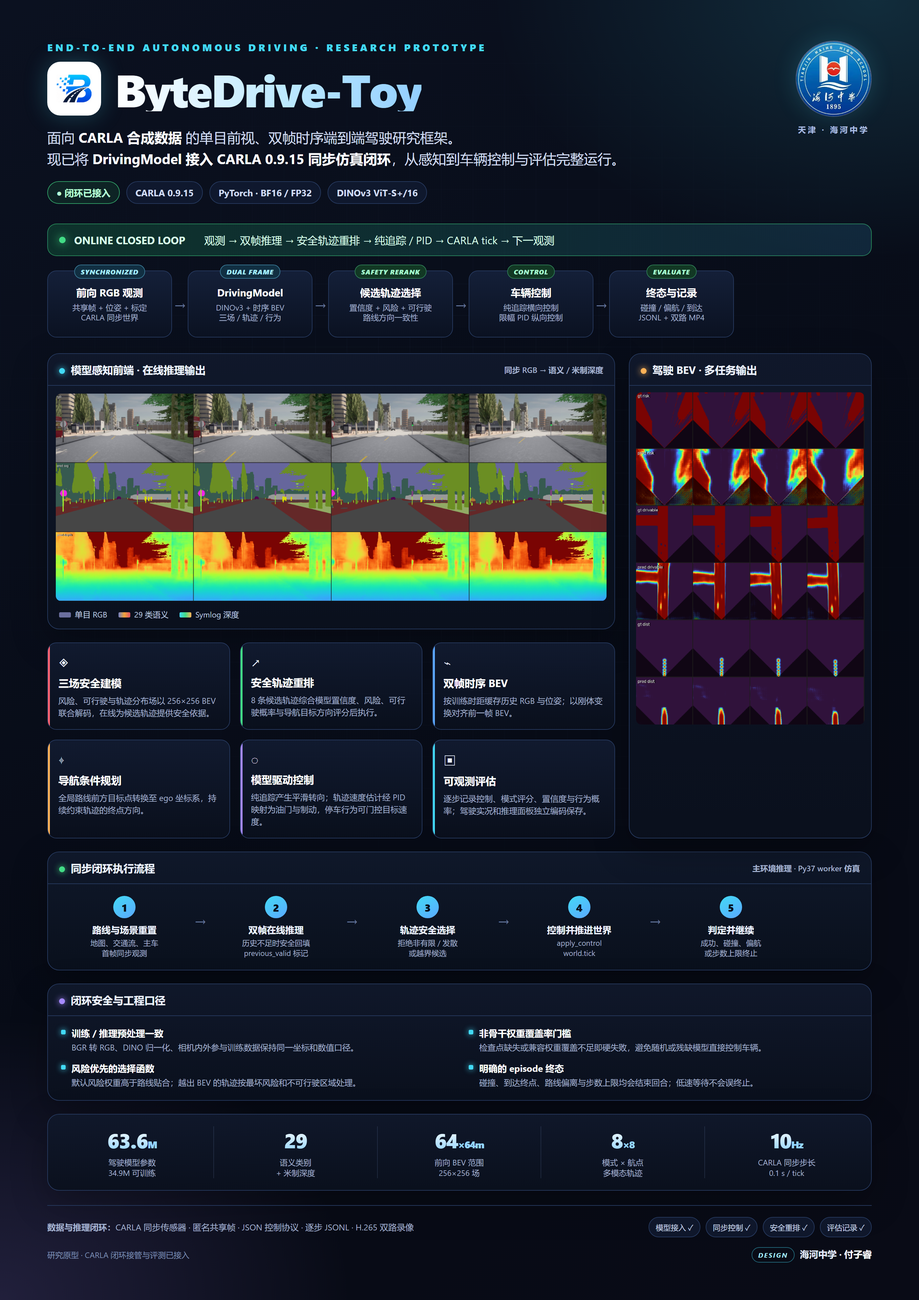
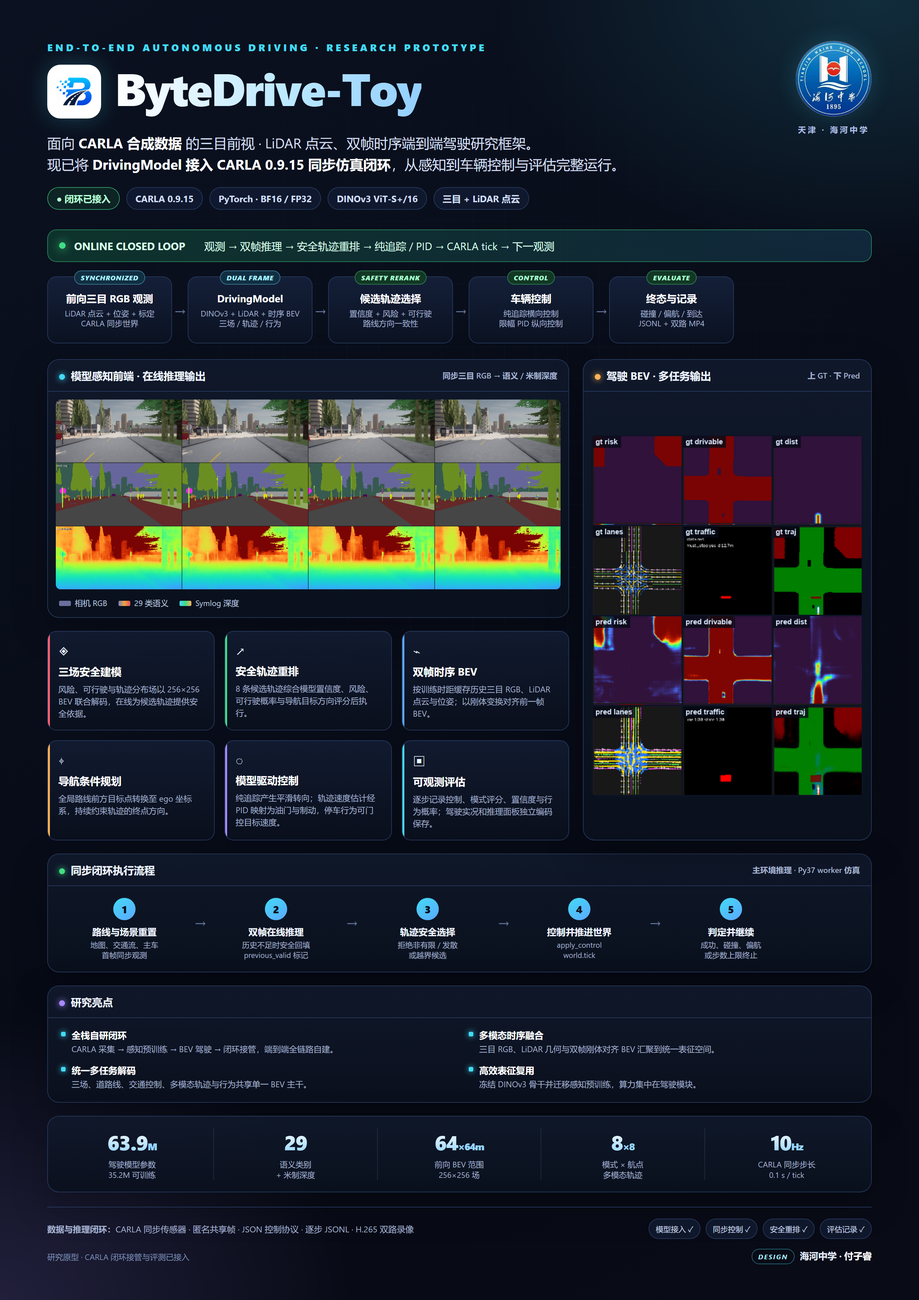
更新

diff --git a/post/poster.html b/post/poster.html
@@ -5,16 +5,16 @@
 <meta name="viewport" content="width=device-width, initial-scale=1">
 <title>ByteDrive-Toy · CARLA 闭环</title>
 <style>
-:root{--bg:#070b16;--panel:#10182b;--panel2:#0c1324;--line:#26395e;--ink:#eef4ff;--muted:#a3b1cd;--cyan:#42daf5;--blue:#5ca8ff;--green:#42dc86;--amber:#ffb257;--violet:#a68aff;--red:#ff6372}*{box-sizing:border-box}html,body{margin:0;background:#000}.stage{width:1400px;height:1980px;overflow:hidden;position:relative;color:var(--ink);font-family:"Segoe UI","Microsoft YaHei",sans-serif;background:radial-gradient(1000px 680px at 95% 0,rgba(66,218,245,.15),transparent 58%),radial-gradient(850px 680px at 0 100%,rgba(166,138,255,.16),transparent 63%),linear-gradient(150deg,#0b1120,#070b16 58%,#090b16)}.stage:before{content:"";position:absolute;inset:0;opacity:.45;background-image:linear-gradient(rgba(123,157,220,.09) 1px,transparent 1px),linear-gradient(90deg,rgba(123,157,220,.09) 1px,transparent 1px);background-size:48px 48px;mask-image:radial-gradient(900px 760px at 50% 34%,#000,transparent)}.pad{position:relative;padding:62px 72px 54px}.top{display:flex;justify-content:space-between;align-items:flex-start}.kicker{font-size:15px;font-weight:800;letter-spacing:4px;color:var(--cyan);text-transform:uppercase}.brand{display:flex;gap:21px;align-items:center;margin-top:12px}.logo{width:82px;height:82px;padding:6px;border-radius:20px;background:#fff;box-shadow:0 0 35px rgba(66,218,245,.25)}.logo img{width:100%;height:100%;object-fit:contain}.title{font-size:69px;font-weight:850;line-height:1;letter-spacing:-2px;background:linear-gradient(90deg,#fff,#bde9ff 55%,#93cfff);color:transparent;background-clip:text}.sub{width:925px;margin:17px 0 0;font-size:21px;line-height:1.55;color:#d2ddf2}.sub b{color:#fff}.pills{display:flex;gap:10px;margin-top:18px}.pill{border:1px solid var(--line);border-radius:999px;padding:7px 13px;background:rgba(17,28,51,.76);color:#d1ddf5;font-size:14px;font-weight:650}.pill.hot{border-color:rgba(66,220,134,.68);color:#b6ffd5;background:rgba(25,92,60,.27)}.school{text-align:center;color:#a9bce0;font-size:12px;letter-spacing:3px;font-weight:700}.school img{display:block;width:116px;height:116px;border-radius:50%;object-fit:cover;margin-bottom:11px;border:1px solid #42577e;box-shadow:0 0 36px rgba(66,218,245,.18)}.ribbon{margin-top:30px;border:1px solid rgba(66,220,134,.5);background:linear-gradient(90deg,rgba(20,100,64,.42),rgba(25,64,91,.5));border-radius:14px;padding:13px 17px;display:flex;align-items:center;gap:13px;font-size:16px;color:#d9ffe9}.led{width:10px;height:10px;border-radius:50%;background:var(--green);box-shadow:0 0 14px var(--green);flex:none}.pipeline{display:flex;align-items:center;gap:0;margin-top:22px}.node{width:190px;min-height:102px;padding:21px 10px 10px;position:relative;text-align:center;border:1px solid var(--line);border-radius:14px;background:linear-gradient(180deg,rgba(21,33,59,.91),rgba(11,18,34,.91))}.node strong{font-size:15.5px;color:#fff}.node span{display:block;margin-top:5px;font-size:12px;line-height:1.25;color:var(--muted)}.tag{position:absolute;top:-10px;left:50%;transform:translateX(-50%);padding:3px 9px;border-radius:99px;border:1px solid #397995;background:#112f42;color:#a4eeff;font-size:10px;font-weight:800;letter-spacing:.6px;white-space:nowrap}.tag.green{color:#a7ffd0;border-color:#2f7c55;background:#123824}.arrow{width:24px;text-align:center;font-size:22px;color:#63759c;font-weight:800}.show{display:grid;grid-template-columns:1fr 370px;gap:21px;margin-top:24px}.card,.block,.statbox{border:1px solid var(--line);border-radius:18px;background:linear-gradient(180deg,rgba(16,24,43,.95),rgba(10,16,29,.95));box-shadow:0 18px 55px rgba(0,0,0,.28)}.head{display:flex;justify-content:space-between;align-items:center;padding:13px 17px;border-bottom:1px solid var(--line);font-size:16px;font-weight:750}.head .muted{font-size:12px;color:var(--muted);font-weight:600}.dot{display:inline-block;width:9px;height:9px;border-radius:50%;margin-right:9px;background:var(--cyan);box-shadow:0 0 10px var(--cyan)}.imgbox{padding:12px}.imgbox img{display:block;width:100%;border-radius:8px}.legend{padding:0 17px 14px;display:flex;gap:17px;color:#bfcae2;font-size:12px}.legend i{display:inline-block;width:18px;height:8px;margin-right:6px;border-radius:2px}.right .imgbox{padding:10px}.right .imgbox img{height:506px;object-fit:cover;object-position:left top}.features{display:grid;grid-template-columns:repeat(3,1fr);gap:15px;margin-top:20px}.feature{min-height:130px;padding:16px;border:1px solid var(--line);border-radius:14px;background:linear-gradient(180deg,rgba(19,29,52,.82),rgba(10,16,29,.82));position:relative;overflow:hidden}.feature:before{content:"";position:absolute;left:0;top:0;bottom:0;width:3px;background:var(--accent)}.feature h3{margin:0 0 7px;font-size:16px;color:#fff}.feature p{margin:0;color:var(--muted);font-size:12.5px;line-height:1.48}.icon{font-size:19px;margin-bottom:7px}.block{margin-top:20px}.flow{display:flex;align-items:center;padding:18px 14px}.step{width:205px;text-align:center}.num{width:34px;height:34px;margin:0 auto 8px;border-radius:50%;display:grid;place-items:center;background:linear-gradient(145deg,var(--cyan),var(--blue));color:#07111e;font-weight:850}.step strong{display:block;font-size:14px}.step span{display:block;font-size:11.5px;line-height:1.35;color:var(--muted);margin-top:3px}.flow .arrow{width:26px;padding-bottom:21px}.detail{display:grid;grid-template-columns:1fr 1fr;gap:13px 28px;padding:16px 20px 18px}.detail div{position:relative;padding-left:16px;font-size:12.5px;line-height:1.45;color:var(--muted)}.detail div:before{content:"";width:7px;height:7px;position:absolute;left:0;top:5px;border-radius:2px;background:var(--cyan);box-shadow:0 0 9px var(--cyan)}.detail b{display:block;color:#fff;font-size:14px;margin-bottom:2px}.stats{display:grid;grid-template-columns:repeat(5,1fr);gap:0;margin-top:20px;padding:18px 4px}.stat{text-align:center;border-right:1px solid rgba(137,166,221,.17)}.stat:last-child{border:0}.value{font-size:31px;font-weight:850;letter-spacing:-1px;background:linear-gradient(#fff,#8fd2ff);background-clip:text;color:transparent}.value small{font-size:15px;color:#93d5ff}.stat p{margin:5px 0 0;font-size:12px;line-height:1.35;color:var(--muted)}.foot{margin-top:22px;padding-top:17px;border-top:1px solid var(--line);display:flex;justify-content:space-between;align-items:center}.foot p{margin:0;color:var(--muted);font-size:13px;line-height:1.5}.chips{display:flex;gap:8px}.chip{padding:6px 10px;border:1px solid var(--line);border-radius:99px;color:#cad7ed;background:rgba(20,31,55,.65);font-size:11.5px}.end{margin-top:15px;display:flex;justify-content:space-between;align-items:center;font-size:12px;color:#7f90b4}.author{font-size:14px;font-weight:700;color:#e3ebfb}.author b{color:#fff}.badge{display:inline-block;border:1px solid rgba(66,218,245,.45);border-radius:99px;color:#a8efff;padding:4px 9px;font-size:10px;letter-spacing:1.5px;margin-right:8px}
+:root{--bg:#070b16;--panel:#10182b;--panel2:#0c1324;--line:#26395e;--ink:#eef4ff;--muted:#a3b1cd;--cyan:#42daf5;--blue:#5ca8ff;--green:#42dc86;--amber:#ffb257;--violet:#a68aff;--red:#ff6372}*{box-sizing:border-box}html,body{margin:0;background:#000}.stage{width:1400px;height:1980px;overflow:hidden;position:relative;color:var(--ink);font-family:"Segoe UI","Microsoft YaHei",sans-serif;background:radial-gradient(1000px 680px at 95% 0,rgba(66,218,245,.15),transparent 58%),radial-gradient(850px 680px at 0 100%,rgba(166,138,255,.16),transparent 63%),linear-gradient(150deg,#0b1120,#070b16 58%,#090b16)}.stage:before{content:"";position:absolute;inset:0;opacity:.45;background-image:linear-gradient(rgba(123,157,220,.09) 1px,transparent 1px),linear-gradient(90deg,rgba(123,157,220,.09) 1px,transparent 1px);background-size:48px 48px;mask-image:radial-gradient(900px 760px at 50% 34%,#000,transparent)}.pad{position:relative;padding:62px 72px 54px}.top{display:flex;justify-content:space-between;align-items:flex-start}.kicker{font-size:15px;font-weight:800;letter-spacing:4px;color:var(--cyan);text-transform:uppercase}.brand{display:flex;gap:21px;align-items:center;margin-top:12px}.logo{width:82px;height:82px;padding:6px;border-radius:20px;background:#fff;box-shadow:0 0 35px rgba(66,218,245,.25)}.logo img{width:100%;height:100%;object-fit:contain}.title{font-size:69px;font-weight:850;line-height:1.14;letter-spacing:-2px;background:linear-gradient(90deg,#fff,#bde9ff 55%,#93cfff);color:transparent;background-clip:text;-webkit-background-clip:text;padding-bottom:12px}.sub{width:925px;margin:17px 0 0;font-size:21px;line-height:1.55;color:#d2ddf2}.sub b{color:#fff}.pills{display:flex;gap:10px;margin-top:18px}.pill{border:1px solid var(--line);border-radius:999px;padding:7px 13px;background:rgba(17,28,51,.76);color:#d1ddf5;font-size:14px;font-weight:650}.pill.hot{border-color:rgba(66,220,134,.68);color:#b6ffd5;background:rgba(25,92,60,.27)}.school{text-align:center;color:#a9bce0;font-size:12px;letter-spacing:3px;font-weight:700}.school img{display:block;width:116px;height:116px;border-radius:50%;object-fit:cover;margin-bottom:11px;border:1px solid #42577e;box-shadow:0 0 36px rgba(66,218,245,.18)}.ribbon{margin-top:30px;border:1px solid rgba(66,220,134,.5);background:linear-gradient(90deg,rgba(20,100,64,.42),rgba(25,64,91,.5));border-radius:14px;padding:13px 17px;display:flex;align-items:center;gap:13px;font-size:16px;color:#d9ffe9}.led{width:10px;height:10px;border-radius:50%;background:var(--green);box-shadow:0 0 14px var(--green);flex:none}.pipeline{display:flex;align-items:center;gap:0;margin-top:22px}.node{width:190px;min-height:102px;padding:21px 10px 10px;position:relative;text-align:center;border:1px solid var(--line);border-radius:14px;background:linear-gradient(180deg,rgba(21,33,59,.91),rgba(11,18,34,.91))}.node strong{font-size:15.5px;color:#fff}.node span{display:block;margin-top:5px;font-size:12px;line-height:1.25;color:var(--muted)}.tag{position:absolute;top:-10px;left:50%;transform:translateX(-50%);padding:3px 9px;border-radius:99px;border:1px solid #397995;background:#112f42;color:#a4eeff;font-size:10px;font-weight:800;letter-spacing:.6px;white-space:nowrap}.tag.green{color:#a7ffd0;border-color:#2f7c55;background:#123824}.arrow{width:24px;text-align:center;font-size:22px;color:#63759c;font-weight:800}.show{display:grid;grid-template-columns:1fr 440px;gap:21px;margin-top:24px}.card,.block,.statbox{border:1px solid var(--line);border-radius:18px;background:linear-gradient(180deg,rgba(16,24,43,.95),rgba(10,16,29,.95));box-shadow:0 18px 55px rgba(0,0,0,.28)}.head{display:flex;justify-content:space-between;align-items:center;padding:13px 17px;border-bottom:1px solid var(--line);font-size:16px;font-weight:750}.head .muted{font-size:12px;color:var(--muted);font-weight:600}.dot{display:inline-block;width:9px;height:9px;border-radius:50%;margin-right:9px;background:var(--cyan);box-shadow:0 0 10px var(--cyan)}.imgbox{padding:12px}.imgbox img{display:block;width:100%;border-radius:8px}.legend{padding:0 17px 14px;display:flex;gap:17px;color:#bfcae2;font-size:12px}.legend i{display:inline-block;width:18px;height:8px;margin-right:6px;border-radius:2px}.right{display:flex;flex-direction:column}.right .imgbox{padding:12px;flex:1;display:flex;align-items:center;justify-content:center}.right .imgbox img{width:100%;height:auto;border-radius:8px}.features{display:grid;grid-template-columns:repeat(3,1fr);gap:15px;margin-top:20px}.feature{min-height:130px;padding:16px;border:1px solid var(--line);border-radius:14px;background:linear-gradient(180deg,rgba(19,29,52,.82),rgba(10,16,29,.82));position:relative;overflow:hidden}.feature:before{content:"";position:absolute;left:0;top:0;bottom:0;width:3px;background:var(--accent)}.feature h3{margin:0 0 7px;font-size:16px;color:#fff}.feature p{margin:0;color:var(--muted);font-size:12.5px;line-height:1.48}.icon{font-size:19px;margin-bottom:7px}.block{margin-top:20px}.flow{display:flex;align-items:center;padding:18px 14px}.step{width:205px;text-align:center}.num{width:34px;height:34px;margin:0 auto 8px;border-radius:50%;display:grid;place-items:center;background:linear-gradient(145deg,var(--cyan),var(--blue));color:#07111e;font-weight:850}.step strong{display:block;font-size:14px}.step span{display:block;font-size:11.5px;line-height:1.35;color:var(--muted);margin-top:3px}.flow .arrow{width:26px;padding-bottom:21px}.detail{display:grid;grid-template-columns:1fr 1fr;gap:13px 28px;padding:16px 20px 18px}.detail div{position:relative;padding-left:16px;font-size:12.5px;line-height:1.45;color:var(--muted)}.detail div:before{content:"";width:7px;height:7px;position:absolute;left:0;top:5px;border-radius:2px;background:var(--cyan);box-shadow:0 0 9px var(--cyan)}.detail b{display:block;color:#fff;font-size:14px;margin-bottom:2px}.stats{display:grid;grid-template-columns:repeat(5,1fr);gap:0;margin-top:20px;padding:18px 4px}.stat{text-align:center;border-right:1px solid rgba(137,166,221,.17)}.stat:last-child{border:0}.value{font-size:31px;font-weight:850;letter-spacing:-1px;background:linear-gradient(#fff,#8fd2ff);background-clip:text;color:transparent}.value small{font-size:15px;color:#93d5ff}.stat p{margin:5px 0 0;font-size:12px;line-height:1.35;color:var(--muted)}.foot{margin-top:22px;padding-top:17px;border-top:1px solid var(--line);display:flex;justify-content:space-between;align-items:center}.foot p{margin:0;color:var(--muted);font-size:13px;line-height:1.5}.chips{display:flex;gap:8px}.chip{padding:6px 10px;border:1px solid var(--line);border-radius:99px;color:#cad7ed;background:rgba(20,31,55,.65);font-size:11.5px}.end{margin-top:15px;display:flex;justify-content:space-between;align-items:center;font-size:12px;color:#7f90b4}.author{font-size:14px;font-weight:700;color:#e3ebfb}.author b{color:#fff}.badge{display:inline-block;border:1px solid rgba(66,218,245,.45);border-radius:99px;color:#a8efff;padding:4px 9px;font-size:10px;letter-spacing:1.5px;margin-right:8px}
 </style>
 </head>
 <body><main class="stage"><div class="pad">
-  <header class="top"><div><div class="kicker">End-to-End Autonomous Driving · Research Prototype</div><div class="brand"><div class="logo"><img src="img/logo_icon.png" alt="ByteDrive"></div><div class="title">ByteDrive-Toy</div></div><p class="sub">面向 <b>CARLA 合成数据</b> 的单目前视、双帧时序端到端驾驶研究框架。<br>现已将 <b>DrivingModel 接入 CARLA 0.9.15 同步仿真闭环</b>，从感知到车辆控制与评估完整运行。</p><div class="pills"><span class="pill hot">● 闭环已接入</span><span class="pill">CARLA 0.9.15</span><span class="pill">PyTorch · BF16 / FP32</span><span class="pill">DINOv3 ViT-S+/16</span></div></div><div class="school"><img src="img/HeiHeLogo.jpg" alt="海河中学">天津 · 海河中学</div></header>
+  <header class="top"><div><div class="kicker">End-to-End Autonomous Driving · Research Prototype</div><div class="brand"><div class="logo"><img src="img/logo_icon.png" alt="ByteDrive"></div><div class="title">ByteDrive-Toy</div></div><p class="sub">面向 <b>CARLA 合成数据</b> 的三目前视 · LiDAR 点云、双帧时序端到端驾驶研究框架。<br>现已将 <b>DrivingModel 接入 CARLA 0.9.15 同步仿真闭环</b>，从感知到车辆控制与评估完整运行。</p><div class="pills"><span class="pill hot">● 闭环已接入</span><span class="pill">CARLA 0.9.15</span><span class="pill">PyTorch · BF16 / FP32</span><span class="pill">DINOv3 ViT-S+/16</span><span class="pill">三目 + LiDAR 点云</span></div></div><div class="school"><img src="img/HeiHeLogo.jpg" alt="海河中学">天津 · 海河中学</div></header>
   <div class="ribbon"><span class="led"></span><b>ONLINE CLOSED LOOP</b>　观测 → 双帧推理 → 安全轨迹重排 → 纯追踪 / PID → CARLA tick → 下一观测</div>
-  <section class="pipeline"><div class="node"><i class="tag">SYNCHRONIZED</i><strong>前向 RGB 观测</strong><span>共享帧 + 位姿 + 标定<br>CARLA 同步世界</span></div><div class="arrow">→</div><div class="node"><i class="tag">DUAL FRAME</i><strong>DrivingModel</strong><span>DINOv3 + 时序 BEV<br>三场 / 轨迹 / 行为</span></div><div class="arrow">→</div><div class="node"><i class="tag green">SAFETY RERANK</i><strong>候选轨迹选择</strong><span>置信度 + 风险 + 可行驶<br>路线方向一致性</span></div><div class="arrow">→</div><div class="node"><i class="tag green">CONTROL</i><strong>车辆控制</strong><span>纯追踪横向控制<br>限幅 PID 纵向控制</span></div><div class="arrow">→</div><div class="node"><i class="tag green">EVALUATE</i><strong>终态与记录</strong><span>碰撞 / 偏航 / 到达<br>JSONL + 双路 MP4</span></div></section>
-  <section class="show"><div><article class="card"><div class="head"><span><i class="dot"></i>模型感知前端 · 在线推理输出</span><span class="muted">同步 RGB → 语义 / 米制深度</span></div><div class="imgbox"><img src="img/persp_day.png" alt="感知预测"></div><div class="legend"><span><i style="background:#6b6f9e"></i>单目 RGB</span><span><i style="background:linear-gradient(90deg,#7180c5,#f3a538,#de506a)"></i>29 类语义</span><span><i style="background:linear-gradient(90deg,#42daf5,#42dc86,#ffb257)"></i>Symlog 深度</span></div></article><div class="features"><article class="feature" style="--accent:#ff6372"><div class="icon">◈</div><h3>三场安全建模</h3><p>风险、可行驶与轨迹分布场以 256×256 BEV 联合解码，在线为候选轨迹提供安全依据。</p></article><article class="feature" style="--accent:#42dc86"><div class="icon">↗</div><h3>安全轨迹重排</h3><p>8 条候选轨迹综合模型置信度、风险、可行驶概率与导航目标方向评分后执行。</p></article><article class="feature" style="--accent:#5ca8ff"><div class="icon">⌁</div><h3>双帧时序 BEV</h3><p>按训练时距缓存历史 RGB 与位姿；以刚体变换对齐前一帧 BEV。</p></article><article class="feature" style="--accent:#ffb257"><div class="icon">⌖</div><h3>导航条件规划</h3><p>全局路线前方目标点转换至 ego 坐标系，持续约束轨迹的终点方向。</p></article><article class="feature" style="--accent:#a68aff"><div class="icon">◌</div><h3>模型驱动控制</h3><p>纯追踪产生平滑转向；轨迹速度估计经 PID 映射为油门与制动，停车行为可门控目标速度。</p></article><article class="feature" style="--accent:#42daf5"><div class="icon">▣</div><h3>可观测评估</h3><p>逐步记录控制、模式评分、置信度与行为概率；驾驶实况和推理面板独立编码保存。</p></article></div></div><aside class="card right"><div class="head"><span><i class="dot" style="background:var(--amber);box-shadow:0 0 10px var(--amber)"></i>驾驶 BEV · 多任务输出</span></div><div class="imgbox"><img src="img/bev_fields.png" alt="BEV 多任务输出"></div></aside></section>
+  <section class="pipeline"><div class="node"><i class="tag">SYNCHRONIZED</i><strong>前向三目 RGB 观测</strong><span>LiDAR 点云 + 位姿 + 标定<br>CARLA 同步世界</span></div><div class="arrow">→</div><div class="node"><i class="tag">DUAL FRAME</i><strong>DrivingModel</strong><span>DINOv3 + LiDAR + 时序 BEV<br>三场 / 轨迹 / 行为</span></div><div class="arrow">→</div><div class="node"><i class="tag green">SAFETY RERANK</i><strong>候选轨迹选择</strong><span>置信度 + 风险 + 可行驶<br>路线方向一致性</span></div><div class="arrow">→</div><div class="node"><i class="tag green">CONTROL</i><strong>车辆控制</strong><span>纯追踪横向控制<br>限幅 PID 纵向控制</span></div><div class="arrow">→</div><div class="node"><i class="tag green">EVALUATE</i><strong>终态与记录</strong><span>碰撞 / 偏航 / 到达<br>JSONL + 双路 MP4</span></div></section>
+  <section class="show"><div><article class="card"><div class="head"><span><i class="dot"></i>模型感知前端 · 在线推理输出</span><span class="muted">同步三目 RGB → 语义 / 米制深度</span></div><div class="imgbox"><img src="img/persp_day.png" alt="感知预测"></div><div class="legend"><span><i style="background:#6b6f9e"></i>相机 RGB</span><span><i style="background:linear-gradient(90deg,#7180c5,#f3a538,#de506a)"></i>29 类语义</span><span><i style="background:linear-gradient(90deg,#42daf5,#42dc86,#ffb257)"></i>Symlog 深度</span></div></article><div class="features"><article class="feature" style="--accent:#ff6372"><div class="icon">◈</div><h3>三场安全建模</h3><p>风险、可行驶与轨迹分布场以 256×256 BEV 联合解码，在线为候选轨迹提供安全依据。</p></article><article class="feature" style="--accent:#42dc86"><div class="icon">↗</div><h3>安全轨迹重排</h3><p>8 条候选轨迹综合模型置信度、风险、可行驶概率与导航目标方向评分后执行。</p></article><article class="feature" style="--accent:#5ca8ff"><div class="icon">⌁</div><h3>双帧时序 BEV</h3><p>按训练时距缓存历史三目 RGB、LiDAR 点云与位姿；以刚体变换对齐前一帧 BEV。</p></article><article class="feature" style="--accent:#ffb257"><div class="icon">⌖</div><h3>导航条件规划</h3><p>全局路线前方目标点转换至 ego 坐标系，持续约束轨迹的终点方向。</p></article><article class="feature" style="--accent:#a68aff"><div class="icon">◌</div><h3>模型驱动控制</h3><p>纯追踪产生平滑转向；轨迹速度估计经 PID 映射为油门与制动，停车行为可门控目标速度。</p></article><article class="feature" style="--accent:#42daf5"><div class="icon">▣</div><h3>可观测评估</h3><p>逐步记录控制、模式评分、置信度与行为概率；驾驶实况和推理面板独立编码保存。</p></article></div></div><aside class="card right"><div class="head"><span><i class="dot" style="background:var(--amber);box-shadow:0 0 10px var(--amber)"></i>驾驶 BEV · 多任务输出</span><span class="muted">上 GT · 下 Pred</span></div><div class="imgbox"><img src="img/bev_fields.png" alt="BEV 多任务输出"></div></aside></section>
   <section class="block"><div class="head"><span><i class="dot" style="background:var(--green);box-shadow:0 0 10px var(--green)"></i>同步闭环执行流程</span><span class="muted">主环境推理 · Py37 worker 仿真</span></div><div class="flow"><div class="step"><div class="num">1</div><strong>路线与场景重置</strong><span>地图、交通流、主车<br>首帧同步观测</span></div><div class="arrow">→</div><div class="step"><div class="num">2</div><strong>双帧在线推理</strong><span>历史不足时安全回填<br>previous_valid 标记</span></div><div class="arrow">→</div><div class="step"><div class="num">3</div><strong>轨迹安全选择</strong><span>拒绝非有限 / 发散<br>或越界候选</span></div><div class="arrow">→</div><div class="step"><div class="num">4</div><strong>控制并推进世界</strong><span>apply_control<br>world.tick</span></div><div class="arrow">→</div><div class="step"><div class="num">5</div><strong>判定并继续</strong><span>成功、碰撞、偏航<br>或步数上限终止</span></div></div></section>
-  <section class="block"><div class="head"><span><i class="dot" style="background:var(--violet);box-shadow:0 0 10px var(--violet)"></i>闭环安全与工程口径</span></div><div class="detail"><div><b>训练 / 推理预处理一致</b>BGR 转 RGB、DINO 归一化、相机内外参与训练数据保持同一坐标和数值口径。</div><div><b>非骨干权重覆盖率门槛</b>检查点缺失或兼容权重覆盖不足即硬失败，避免随机或残缺模型直接控制车辆。</div><div><b>风险优先的选择函数</b>默认风险权重高于路线贴合；越出 BEV 的轨迹按最坏风险和不可行驶区域处理。</div><div><b>明确的 episode 终态</b>碰撞、到达终点、路线偏离与步数上限均会结束回合；低速等待不会误终止。</div></div></section>
-  <section class="stats statbox"><div class="stat"><div class="value">63.6<small>M</small></div><p>驾驶模型参数<br>34.9M 可训练</p></div><div class="stat"><div class="value">29</div><p>语义类别<br>+ 米制深度</p></div><div class="stat"><div class="value">64<small>×64m</small></div><p>前向 BEV 范围<br>256×256 场</p></div><div class="stat"><div class="value">8<small>×8</small></div><p>模式 × 航点<br>多模态轨迹</p></div><div class="stat"><div class="value">10<small>Hz</small></div><p>CARLA 同步步长<br>0.1 s / tick</p></div></section>
+  <section class="block"><div class="head"><span><i class="dot" style="background:var(--violet);box-shadow:0 0 10px var(--violet)"></i>研究亮点</span></div><div class="detail"><div><b>全栈自研闭环</b>CARLA 采集 → 感知预训练 → BEV 驾驶 → 闭环接管，端到端全链路自建。</div><div><b>多模态时序融合</b>三目 RGB、LiDAR 几何与双帧刚体对齐 BEV 汇聚到统一表征空间。</div><div><b>统一多任务解码</b>三场、道路线、交通控制、多模态轨迹与行为共享单一 BEV 主干。</div><div><b>高效表征复用</b>冻结 DINOv3 骨干并迁移感知预训练，算力集中在驾驶模块。</div></div></section>
+  <section class="stats statbox"><div class="stat"><div class="value">63.9<small>M</small></div><p>驾驶模型参数<br>35.2M 可训练</p></div><div class="stat"><div class="value">29</div><p>语义类别<br>+ 米制深度</p></div><div class="stat"><div class="value">64<small>×64m</small></div><p>前向 BEV 范围<br>256×256 场</p></div><div class="stat"><div class="value">8<small>×8</small></div><p>模式 × 航点<br>多模态轨迹</p></div><div class="stat"><div class="value">10<small>Hz</small></div><p>CARLA 同步步长<br>0.1 s / tick</p></div></section>
   <footer class="foot"><p><b>数据与推理闭环：</b>CARLA 同步传感器 · 匿名共享帧 · JSON 控制协议 · 逐步 JSONL · H.265 双路录像</p><div class="chips"><span class="chip">模型接入 ✓</span><span class="chip">同步控制 ✓</span><span class="chip">安全重排 ✓</span><span class="chip">评估记录 ✓</span></div></footer><div class="end"><span>研究原型 · CARLA 闭环接管与评测已接入</span><span class="author"><i class="badge">DESIGN</i>海河中学 · <b>付子睿</b></span></div>
 </div></main></body></html>

diff --git a/README.md b/README.md
@@ -483,16 +483,14 @@ flowchart TB
 | 模型 | 总参数 | 默认可训练参数 | 冻结参数 |
 | --- | ---: | ---: | ---: |
 | `PerceptionModel` | 35,195,167 | 6,502,303 | 28,692,864 |
-| `DrivingModel` | 63,954,855 | 35,261,991 | 28,692,864 |
+| `DrivingModel` | 63,886,455 | 35,193,591 | 28,692,864 |
 
-默认 `model.driving.freeze_perception=false`，因此驾驶模型的 35.26M 非冻结参数包含视觉 fusion/trunk、
+默认 `model.driving.freeze_perception=false`，因此驾驶模型的 35.19M 非冻结参数包含视觉 fusion/trunk、
 时序 BEV 与各驾驶解码器；语义/深度头未被构造。DINOv3 的 28.69M 参数始终冻结。
 若设为 `true`，视觉 fusion/trunk 也会完全冻结。
 
-LiDAR 融合与 10Hz 新轨迹头都不改动其余既有 state-dict 键；仓库示例旧驾驶检查点在当前模型中有
-`412/432=95.37%` 的非骨干状态项形状兼容，满足默认闭环覆盖率 0.95。LiDAR 新参数与 6 项
-`trajectory_head` 参数保留构造初始化，40 点基线按当前配置重建，旧 `residual_head` 自动忽略。运行时当前帧和历史帧各编码三路图像与
-一帧 LiDAR；BEV 与各解码器计算量保持不变。下表仅保留
+发布的驾驶检查点与当前模型结构完全对齐，非骨干 state-dict 项 `385/385=100%` 形状兼容，满足默认闭环覆盖率门槛。
+运行时当前帧和历史帧各编码三路图像与一帧 LiDAR（模型只取点云 XYZ 几何统计，不使用语义标签）；BEV 与各解码器计算量保持不变。下表仅保留
 不受三目化影响的感知模型实测口径，驾驶显存应在目标硬件上按实际 batch 重新测量。
 
 | 模型 | 推理计算量 | 约合 MACs | FP32 参数内存 | 输入+输出张量 | CUDA 静态显存下限 |
@@ -851,7 +849,7 @@ ByteDrive-Toy/
 | --- | ---: | --- | --- |
 | `model.safetensors` | 109.5 MiB | DINOv3 ViT-S+/16 冻结骨干 | 构造任一模型时自动本地加载 |
 | `perception.pt` | 74.6 MiB | 感知 epoch 40；模型+优化器 | 感知推理/续训；初始化驾驶感知模块 |
-| `driving.pt` | 399.9 MiB | 驾驶 epoch 40；模型+优化器 | 驾驶推理/续训 |
+| `driving.pt` | 403.2 MiB | 驾驶 epoch 80；模型+优化器 | 驾驶推理/续训 |
 | `Town02_HD_map.npz` | 3.2 MiB | Town02 车道折线 HDMap | 生成可行驶场和越界距离场 |
 
 快速检查权重能否被当前代码识别：
@@ -936,7 +934,7 @@ python -c "from config import load_config; c=load_config(); print(c.train.device
 python -c "from model.perception_model import PerceptionModel; from config import load_config; m=PerceptionModel(load_config()); print(sum(p.numel() for p in m.parameters()))"
 ```
 
-预期第二条命令能从本地 `model/dinov3-vits16plus-pretrain-lvd1689m/` 加载权重，并输出 `35128815`。
+预期第二条命令能从本地 `model/dinov3-vits16plus-pretrain-lvd1689m/` 加载权重，并输出 `35195167`。
 
 ### 2. 采集少量 CARLA 数据
 
@@ -1002,7 +1000,7 @@ python train/run.py --task driving --env fresh_driving --perception-ckpt train/c
 ```yaml
 # config/continue_driving.yaml
 train:
-  epochs: 20
+  epochs: 90
 ```
 
 ```powershell
